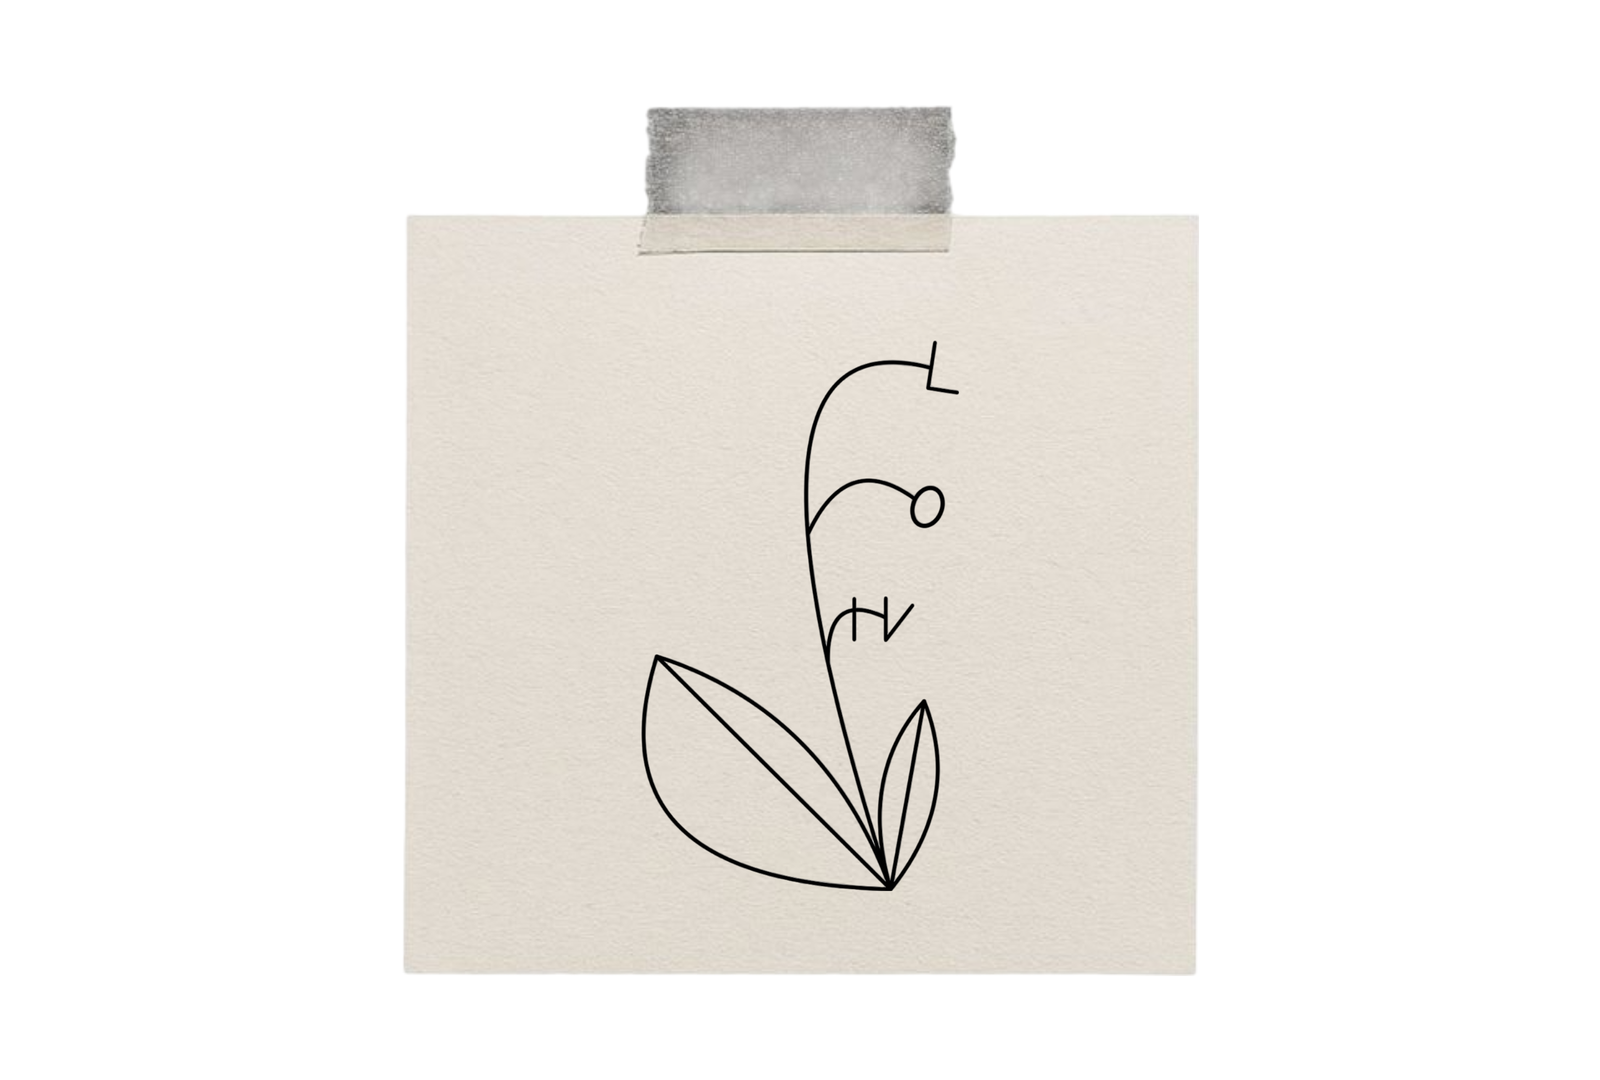
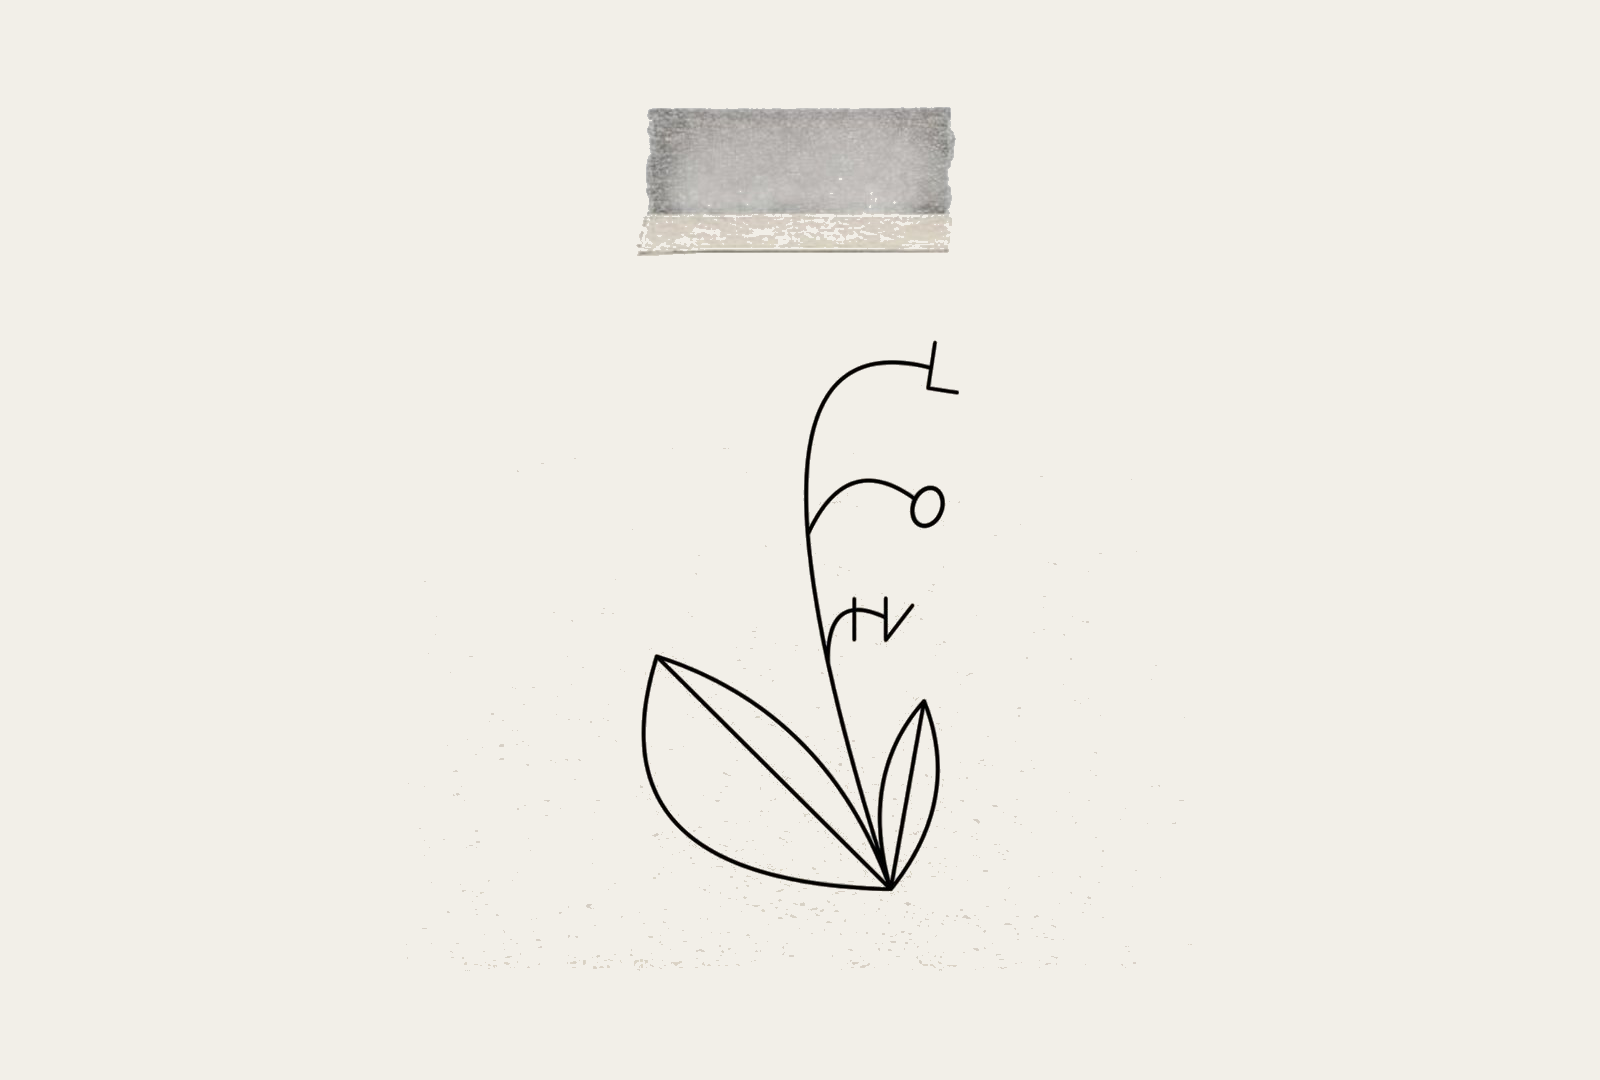
Add files via upload

diff --git a/index.html b/index.html
@@ -589,7 +589,7 @@
 <!-- ── ABOUT ── -->
 <section class="about" id="about">
   <div class="about-visual scroll-reveal" style="background: var(--warm-white);">
-    <img src="about.png" alt="LOTV 대표 사진" style="width:100%; height:100%; object-fit:contain; display:block; mix-blend-mode:multiply; background: var(--warm-white);">
+    <img src="about.png" alt="LOTV 대표 사진" style="width:100%; height:100%; object-fit:contain; display:block;">
   </div>
   <div class="about-content scroll-reveal" style="transition-delay: 0.15s;">
     <div class="section-label">About LOTV</div>
